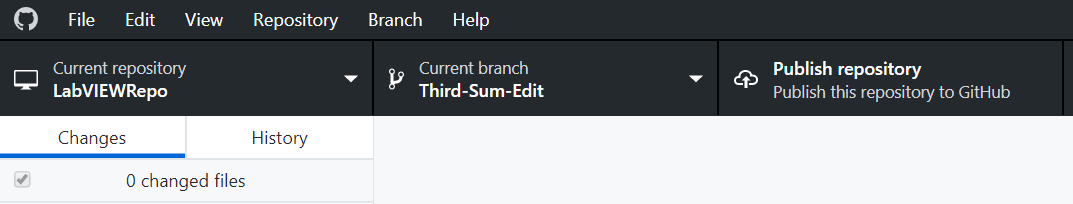
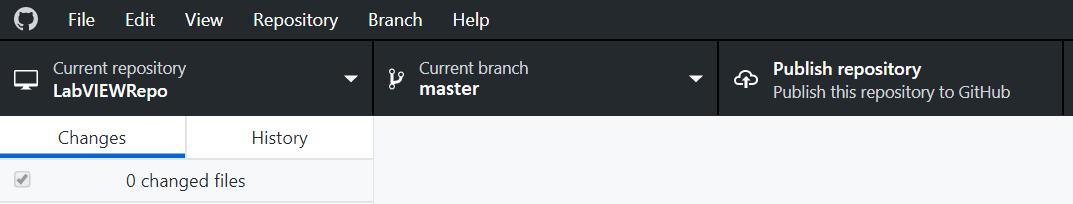
Merge branch 'patch-1' of https://github.com/SachaEmery/GitHub-Hands-on into SachaEmery-patch-1
fixed text for branches, updated related images

Changed region(s): [[0.3691, 0.4118, 0.5228, 0.5]]

diff --git a/Basic Concepts/Basic Concepts.md b/Basic Concepts/Basic Concepts.md
@@ -150,7 +150,7 @@ If you are working on a project with multiple users making changes, you can see 
 ![](images/Edit_in_GitHub.png "Edit Markdown file in GitHub")
 
 
-3. Add text to the "README.md" file and commit your changes with the box below the editor. Note that we are still working in the branch **Third-Sum-Edit**.
+3. Add text to the "README.md" file and commit your changes with the box below the editor. Note that we are still working in the branch **master**.
 
 4. Go back to GitHub Desktop. You will see that the button that previously said **Fetch origin** now says **Pull origin**. Click this to apply the change to your local repo.
 
